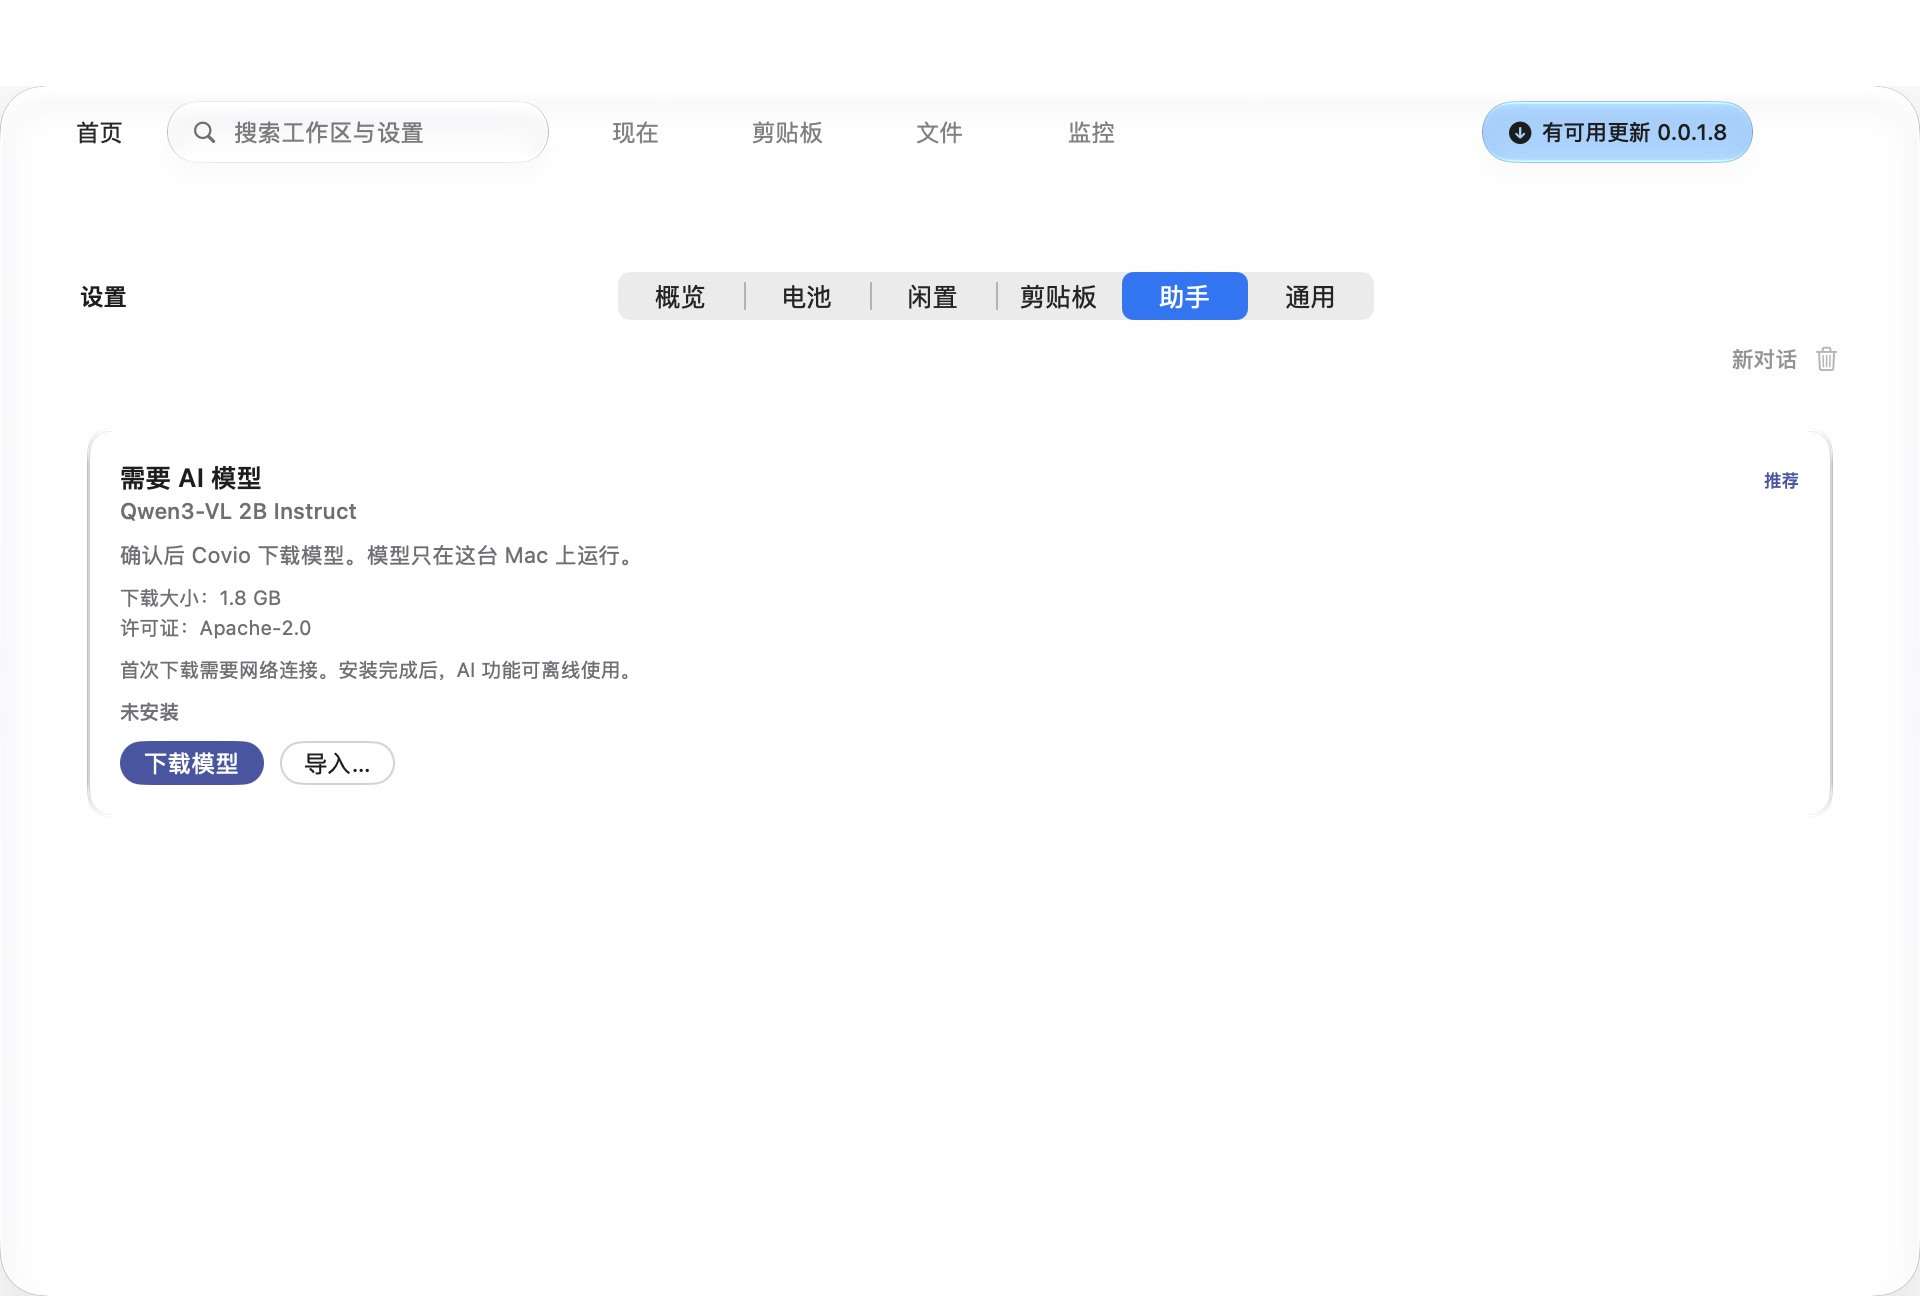
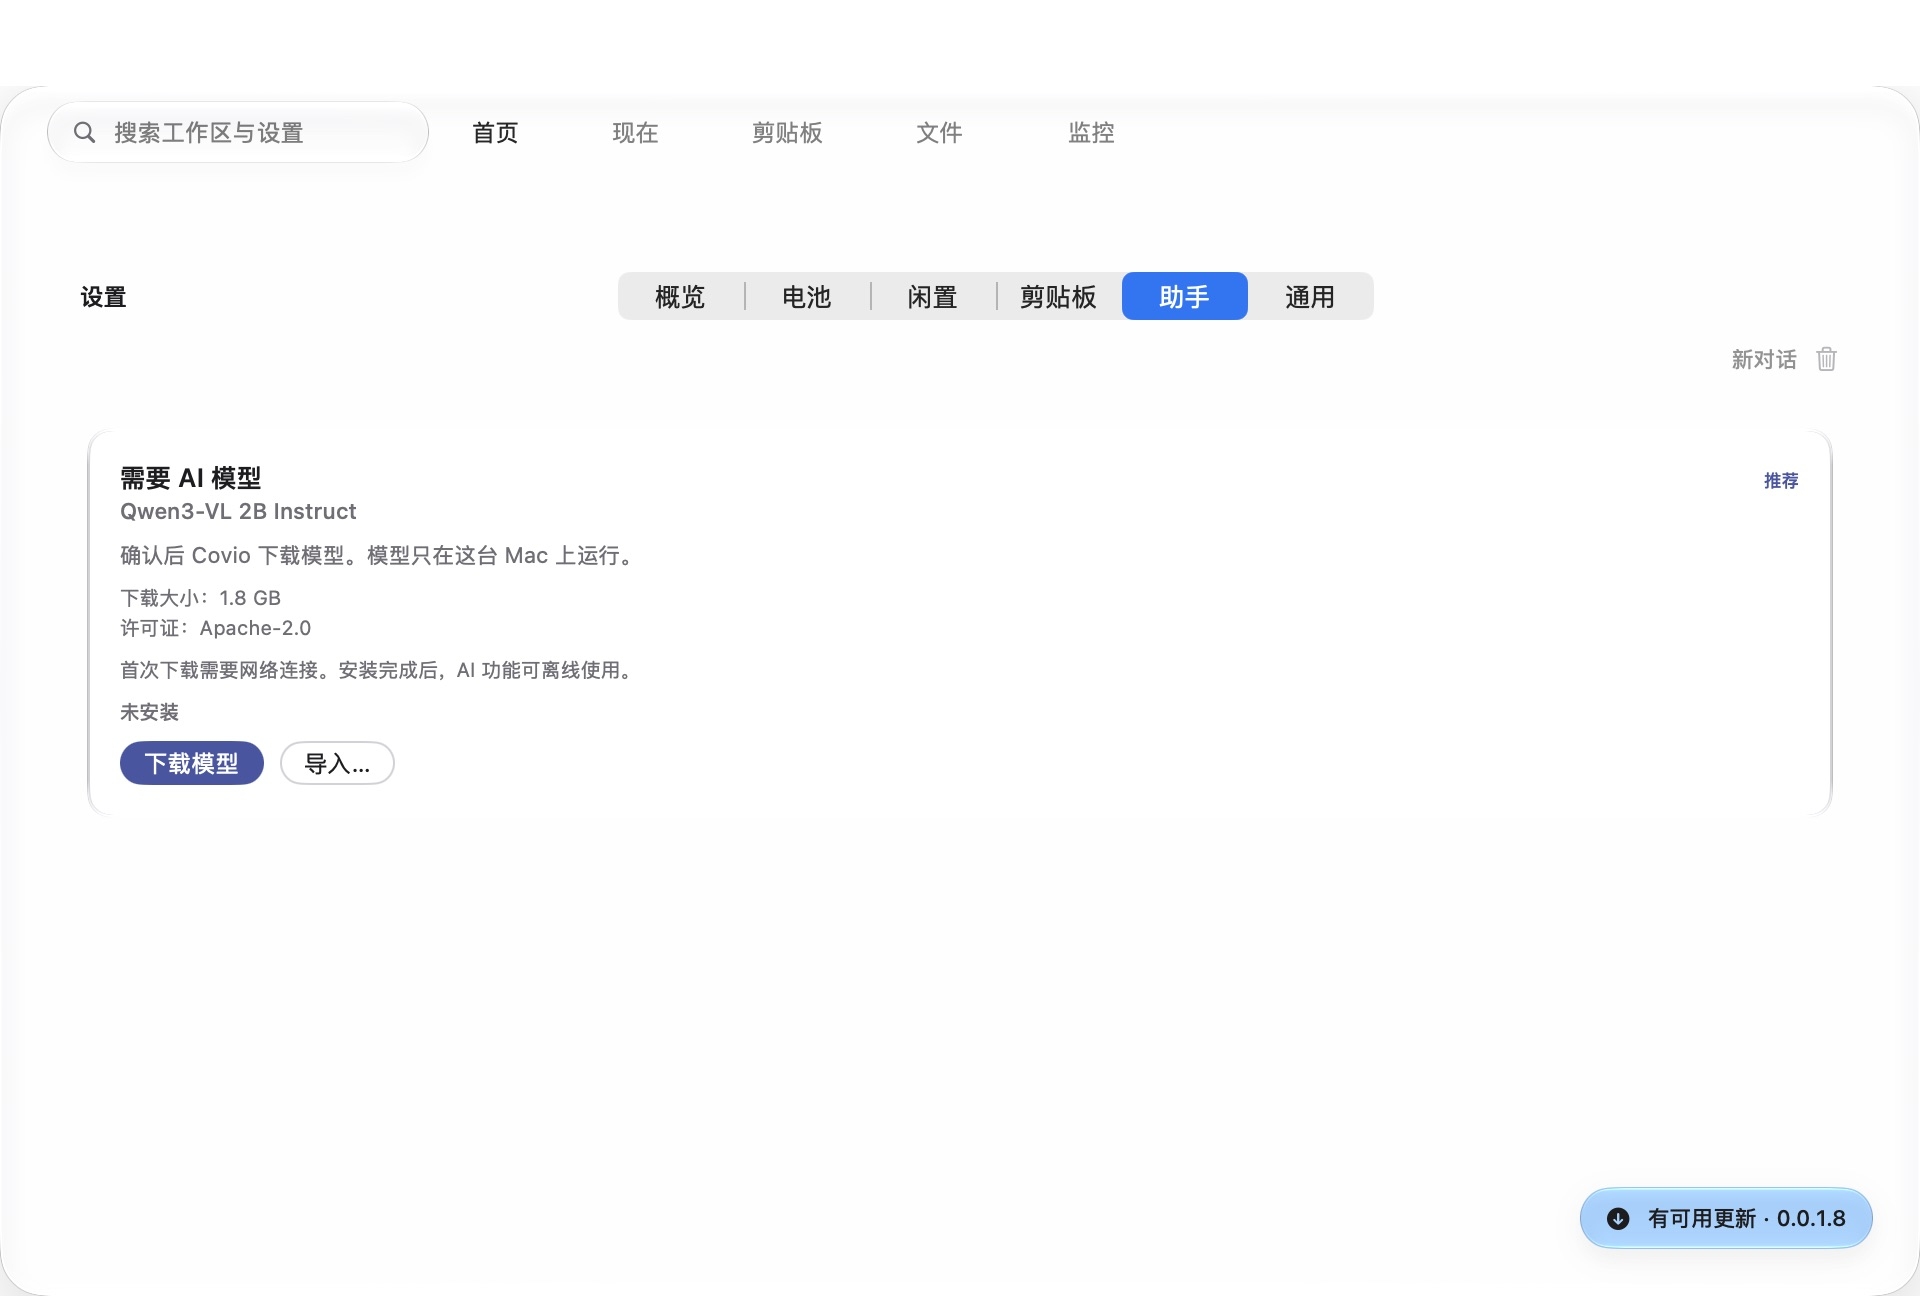
Move update entry out of navigation
Refs #549

diff --git a/macosApp/src/Hub/Workbench/WorkbenchTabBar.swift b/macosApp/src/Hub/Workbench/WorkbenchTabBar.swift
@@ -42,7 +42,7 @@ struct TabReorderState {
 
 /// 挂帘顶部的横向页签栏。合同 `component/tab-bar`，`nativeSize` 是 960 × 46。
 ///
-/// 左端固定是首页入口，紧挨着搜索框，中间是工作区页签，右端是当前页的动作。
+/// 左端固定是搜索框，紧挨着首页入口，中间是工作区页签，右端是当前页的动作。
 /// 导航按钮默认透明。选中态使用淡强调色 regular 玻璃。
 /// 指针悬停与键盘焦点使用 regular 玻璃，并叠加高对比焦点环。
 /// 编辑模式里页签前面加拖动把手，横向拖过 84 点换一次位置。
@@ -64,12 +64,6 @@ struct WorkbenchTabBar: View {
     /// 顶栏上表示「去哪里」的两处 —— 首页入口与工作区页签 —— 都报。
     /// 搜索框与右端的动作按钮不报：它们表示「做什么」，滑过不该换页。
     let onHover: (HubDestination, Bool) -> Void
-    /// 有可用更新时显示版本号；无更新时右端不占更新入口。
-    var availableUpdateVersion: String? = nil
-    /// 更新检查进行中时禁用重复点击。
-    var isCheckingForUpdates = false
-    /// 点击更新入口。由运行时执行手动检查。
-    var onCheckForUpdates: () -> Void = {}
 
     /// 正在拖的页签 id，与这一次拖动已经挪过的条数。
     @State private var reorderID: String?
@@ -84,14 +78,11 @@ struct WorkbenchTabBar: View {
     @Namespace private var selectionNamespace
     var body: some View {
         HStack(spacing: HubMetrics.tabBarItemGap) {
-            homeEntry
             searchField
+            homeEntry
             tabStrip
             // 页签不够宽时，空位留在页签与动作位之间。左侧元素的位置因此不随页面变。
             Spacer(minLength: 0)
-            if let availableUpdateVersion {
-                updateBadge(availableUpdateVersion)
-            }
             pageActionSlot
         }
         .padding(.horizontal, HubMetrics.tabBarHPadding)
@@ -106,7 +97,7 @@ struct WorkbenchTabBar: View {
 
     // MARK: - 首页入口
 
-    /// 固定在左端，不参与排序，也不随页签滚动。
+    /// 固定在搜索框右侧，不参与排序，也不随页签滚动。
     private var homeEntry: some View {
         let isSelected = destination == .home
         return Button {
@@ -134,6 +125,7 @@ struct WorkbenchTabBar: View {
 
     // MARK: - 搜索
 
+    /// 固定在左端。搜索优先于首页入口，符合 macOS 工具条的阅读顺序。
     private var searchField: some View {
         HStack(spacing: MacTheme.space2) {
             Image(systemName: "magnifyingglass")
@@ -278,10 +270,6 @@ struct WorkbenchTabBar: View {
 
     /// 导航高亮使用原生 regular Liquid Glass。未选中且未交互时保持透明。
     private func navigationGlass(for target: NavigationGlassTarget, isSelected: Bool) -> Glass {
-        if target == .update {
-            let tintOpacity = hoveredTarget == target || focusedTarget == target ? 0.5 : 0.32
-            return .regular.tint(MacTheme.accent.opacity(tintOpacity)).interactive()
-        }
         if isSelected {
             return .regular.tint(MacTheme.accent).interactive()
         }
@@ -355,38 +343,6 @@ struct WorkbenchTabBar: View {
         .onHover { hoveredTarget = $0 ? .pageAction : nil }
     }
 
-    /// 更新入口。只在运行时发现新版本后出现，点击会重新执行手动检查。
-    private func updateBadge(_ version: String) -> some View {
-        let title = "\(ContractCopy.copyDialogUpdateTitle.text(for: language)) \(version)"
-        return Button(action: onCheckForUpdates) {
-            HStack(spacing: MacTheme.space1) {
-                if isCheckingForUpdates {
-                    ProgressView()
-                        .controlSize(.mini)
-                        .frame(width: 11, height: 11)
-                } else {
-                    Image(systemName: "arrow.down.circle.fill")
-                        .font(.system(size: 11, weight: .semibold))
-                }
-                Text(title)
-                    .font(.system(size: 11, weight: .medium))
-                    .lineLimit(1)
-            }
-            .foregroundStyle(MacTheme.textPrimary)
-            .padding(.horizontal, HubMetrics.actionHPadding)
-            .frame(minWidth: HubMetrics.actionButtonMinWidth, minHeight: HubMetrics.tabHeight)
-            .contentShape(Capsule(style: .continuous))
-        }
-        .buttonStyle(.plain)
-        .disabled(isCheckingForUpdates)
-        .focused($focusedTarget, equals: .update)
-        .glassEffect(navigationGlass(for: .update, isSelected: false), in: .capsule)
-        .overlay { navigationFocusRing(for: .update) }
-        .accessibilityLabel(title)
-        .accessibilityHint(ContractCopy.copyGeneralCheckUpdates.text(for: language))
-        .onHover { hoveredTarget = $0 ? .update : nil }
-    }
-
     private func pageActionLabel(_ action: LocalizedCopy) -> some View {
         Text(action.text(for: language))
             .font(.system(size: 12))
@@ -403,5 +359,4 @@ private enum NavigationGlassTarget: Hashable {
     case home
     case pane(String)
     case pageAction
-    case update
 }

diff --git a/macosApp/test/WorkbenchTabBarTests.swift b/macosApp/test/WorkbenchTabBarTests.swift
@@ -78,27 +78,44 @@ final class WorkbenchTabBarTests: XCTestCase {
         XCTAssertEqual(withDone, withoutAction, "编辑模式的「完成」按钮让左侧元素横移了")
     }
 
-    /// 更新入口只占右端空间，不能挪动左侧导航。
-    func testTheUpdateBadgeDoesNotShiftTheLeadingContent() throws {
-        let withoutUpdate = try leadingInkColumn(pageAction: nil)
-        let withUpdate = try leadingInkColumn(
-            pageAction: nil,
-            updateVersion: "0.0.1.8"
+    /// 搜索框在首页入口前面，避免更新入口或页签挤压搜索栏。
+    func testTheSearchFieldComesBeforeHome() throws {
+        let url = Self.repositoryRoot
+            .appendingPathComponent("macosApp/src/Hub/Workbench/WorkbenchTabBar.swift")
+        let source = try String(contentsOf: url, encoding: .utf8)
+
+        XCTAssertTrue(source.contains("            searchField\n            homeEntry\n"))
+    }
+
+    /// 更新入口在内容层右下角，不进入顶栏导航。
+    func testTheUpdateEntryStaysOutsideTheTabBar() throws {
+        let root = Self.repositoryRoot
+        let tabBar = try String(
+            contentsOf: root.appendingPathComponent("macosApp/src/Hub/Workbench/WorkbenchTabBar.swift"),
+            encoding: .utf8
         )
-        let withEditAndUpdate = try leadingInkColumn(
-            pageAction: ContractCopy.copyHubActionEdit,
-            updateVersion: "0.0.1.8"
+        let hub = try String(
+            contentsOf: root.appendingPathComponent("macosApp/src/Hub/HubView.swift"),
+            encoding: .utf8
         )
 
-        XCTAssertEqual(withUpdate, withoutUpdate, "更新入口让左侧元素横移了")
-        XCTAssertEqual(withEditAndUpdate, withoutUpdate, "更新入口与编辑按钮一起出现时，左侧元素横移了")
+        XCTAssertFalse(tabBar.contains("WorkbenchUpdateBadge"))
+        XCTAssertTrue(hub.contains(".overlay(alignment: .bottomTrailing)"))
+        XCTAssertTrue(hub.contains("WorkbenchUpdateBadge("))
+    }
+
+    /// 右下角入口仍需显示本地化标题和版本号。
+    func testTheUpdateBadgeShowsTheVersion() {
+        XCTAssertEqual(
+            WorkbenchUpdateBadge.title(version: "0.0.1.8", language: .simplifiedChinese),
+            "有可用更新 · 0.0.1.8"
+        )
     }
 
     /// 按 1 倍比例渲染一条顶栏，返回最左一列有墨迹的像素横坐标。
     private func leadingInkColumn(
         pageAction: LocalizedCopy?,
-        isEditing: Bool = false,
-        updateVersion: String? = nil
+        isEditing: Bool = false
     ) throws -> Int {
         let panes = panes()
         let bar = WorkbenchTabBar(
@@ -114,8 +131,7 @@ final class WorkbenchTabBarTests: XCTestCase {
             onSelect: { _ in },
             onReorder: { _, _ in },
             onPageAction: {},
-            onHover: { _, _ in },
-            availableUpdateVersion: updateVersion
+            onHover: { _, _ in }
         )
         let renderer = ImageRenderer(content: bar)
         renderer.scale = 1

diff --git a/macosApp/src/Hub/Workbench/WorkbenchUpdateBadge.swift b/macosApp/src/Hub/Workbench/WorkbenchUpdateBadge.swift
@@ -1,0 +1,65 @@
+import SwiftUI
+
+/// 工作台右下角的更新入口。
+///
+/// 更新入口不放进顶栏，避免占用导航宽度或遮挡页签。
+struct WorkbenchUpdateBadge: View {
+    let version: String
+    let language: AppLanguage
+    let isChecking: Bool
+    let onCheck: () -> Void
+
+    @State private var isHovering = false
+    @FocusState private var isFocused: Bool
+
+    var body: some View {
+        Button(action: onCheck) {
+            HStack(spacing: MacTheme.space2) {
+                if isChecking {
+                    ProgressView()
+                        .controlSize(.mini)
+                        .frame(width: 12, height: 12)
+                } else {
+                    Image(systemName: "arrow.down.circle.fill")
+                        .font(.system(size: 11, weight: .semibold))
+                }
+                Text(title)
+                    .font(.system(size: 11, weight: .medium))
+                    .lineLimit(1)
+            }
+            .foregroundStyle(MacTheme.textPrimary)
+            .padding(.horizontal, HubMetrics.actionHPadding)
+            .frame(minHeight: HubMetrics.tabHeight)
+            .contentShape(Capsule(style: .continuous))
+        }
+        .buttonStyle(.plain)
+        .disabled(isChecking)
+        .focused($isFocused)
+        .glassEffect(updateGlass, in: .capsule)
+        .overlay {
+            Capsule(style: .continuous)
+                .strokeBorder(
+                    isFocused ? Color(nsColor: .keyboardFocusIndicatorColor) : .clear,
+                    lineWidth: 2
+                )
+                .allowsHitTesting(false)
+        }
+        .shadow(color: MacTheme.shadow.opacity(0.28), radius: 8, y: 4)
+        .accessibilityLabel(title)
+        .accessibilityHint(ContractCopy.copyGeneralCheckUpdates.text(for: language))
+        .onHover { isHovering = $0 }
+    }
+
+    static func title(version: String, language: AppLanguage) -> String {
+        "\(ContractCopy.copyDialogUpdateTitle.text(for: language)) · \(version)"
+    }
+
+    private var title: String {
+        Self.title(version: version, language: language)
+    }
+
+    private var updateGlass: Glass {
+        let opacity = isHovering || isFocused ? 0.5 : 0.32
+        return .regular.tint(MacTheme.accent.opacity(opacity)).interactive()
+    }
+}

diff --git a/macosApp/src/Hub/HubView.swift b/macosApp/src/Hub/HubView.swift
@@ -115,7 +115,25 @@ struct HubView: View {
             }
         }
         .frame(width: HubMetrics.panelWidth, height: plateStackHeight, alignment: .top)
-        // 高亮行从环境里取，五个设置页不必各自拿一遍模型。
+        .overlay(alignment: .bottomTrailing) {
+            if let runtime, let update = runtime.availableUpdate {
+                WorkbenchUpdateBadge(
+                    version: update.version,
+                    language: language,
+                    isChecking: runtime.isCheckingForUpdates
+                ) {
+                    runtime.checkForUpdates(manual: true)
+                }
+                .padding(.trailing, HubMetrics.panelPadding)
+                .padding(.bottom, HubMetrics.panelPadding)
+                .transition(.opacity.combined(with: .move(edge: .trailing)))
+            }
+        }
+        .animation(
+            reduceMotion ? nil : .easeOut(duration: HubMotion.tabSwitch),
+            value: runtime?.availableUpdate?.version
+        )
+        // 高亮行从环境里取，六个设置页不必各自拿一遍模型。
         .environment(\.highlightedSettingsRow, chrome.highlightedRowID)
     }
 
@@ -147,10 +165,7 @@ struct HubView: View {
             onSelect: { workbench.select(paneID: $0) },
             onReorder: { workbench.movePane(from: $0, to: $1) },
             onPageAction: { workbench.performPageAction() },
-            onHover: reportHover,
-            availableUpdateVersion: runtime?.availableUpdate?.version,
-            isCheckingForUpdates: runtime?.isCheckingForUpdates ?? false,
-            onCheckForUpdates: { runtime?.checkForUpdates(manual: true) }
+            onHover: reportHover
         )
     }
 

diff --git a/docs/design/workbench-architecture.md b/docs/design/workbench-architecture.md
@@ -100,7 +100,7 @@ R7 不做主屏手势。系统不向第三方应用开放 iOS 主屏手势入口
 | --- | --- | --- | --- | --- |
 | S1 | 菜单栏与托盘 | 一级入口是原生菜单栏状态项。图标使用玻璃吊卡图形，位置由 macOS 排列。状态取合同 `menuBarAndNotchHub.statusItemStates`，共六种。 | 打开挂帘、打开托盘菜单 | 合同板 23、24 |
 | S2 | 挂帘收起 | 没有面板。热区和菜单栏图标可用。 | 触发打开 | 合同板 25、`state/notch-hub/hidden` |
-| S3 | 挂帘展开 · 页签 | 顶部页签栏（文字首页入口、玻璃搜索框、可切换工作区页签、更新入口与动作位）、内容区。页签名称提供页面上下文，内容区不重复页标题。 | 切换工作区、搜索、检查更新、执行页动作 | 合同板 26、27；`component/tab-bar` |
+| S3 | 挂帘展开 · 页签 | 顶部页签栏（玻璃搜索框、文字首页入口、可切换工作区页签与动作位）、内容区。页签名称提供页面上下文，内容区不重复页标题。 | 切换工作区、搜索、检查更新、执行页动作 | 合同板 26、27；`component/tab-bar` |
 | S4 | 挂帘展开 · 首页 | 组件卡片按网格排列。 | 打开组件、进入编辑模式 | 合同暂无条目 |
 | S5 | 工作区内容页 | 各模块内容。默认四个可切换工作区各一页。 | 模块动作 | 合同板 08 至 18、29 至 33；Agent 预览 207 |
 | S6 | 编辑模式 | 组件可自由放到空格，也可缩放和删除。页签可拖动排序。 | 添加、移动、删除、退出编辑 | 合同暂无条目 |
@@ -111,7 +111,7 @@ R7 不做主屏手势。系统不向第三方应用开放 iOS 主屏手势入口
 
 设置不在工作区页签中。用户从菜单栏状态项打开设置。
 助手是设置的一个分节。助手、本地模型与外部 Agent 服务使用同一入口。
-发现新版本后，工作台顶栏右端显示带版本号的更新入口。点击入口执行手动检查。
+发现新版本后，工作台右下角显示带版本号的更新入口。入口不占用顶栏。点击入口执行手动检查。
 
 截图、临时文件、文本和传输显示在「文件」工作区。
 「文件」使用 ADR-0010 的单焦点与安静网格。
